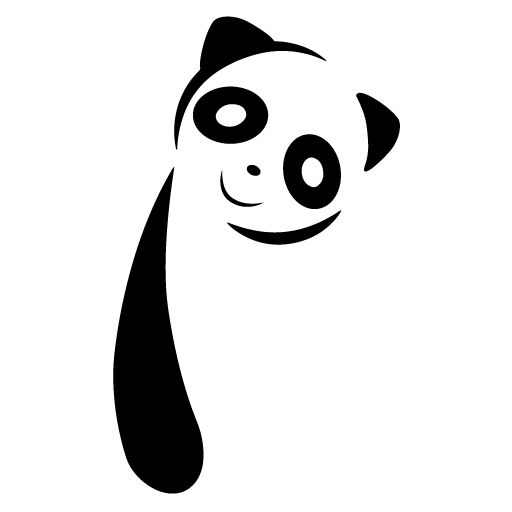
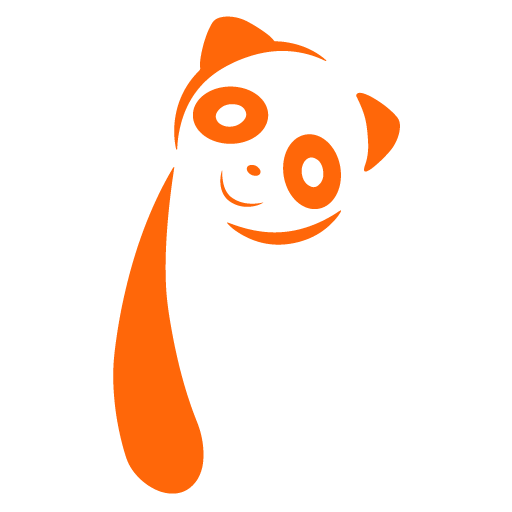
add orange

diff --git a/src/components/Globals/Navbar/NavbarHeader.js b/src/components/Globals/Navbar/NavbarHeader.js
@@ -1,6 +1,6 @@
 import React from 'react'
 import whiteLogo from '../../../images/transparent-panda.png';
-import orangeLogo from '../../../images/black-panda.png';
+import orangeLogo from '../../../images/dark-logo.png';
 import { IoIosArrowRoundBack,IoIosMenu} from 'react-icons/io';
 import styled from 'styled-components';
 import {Link} from "gatsby";
